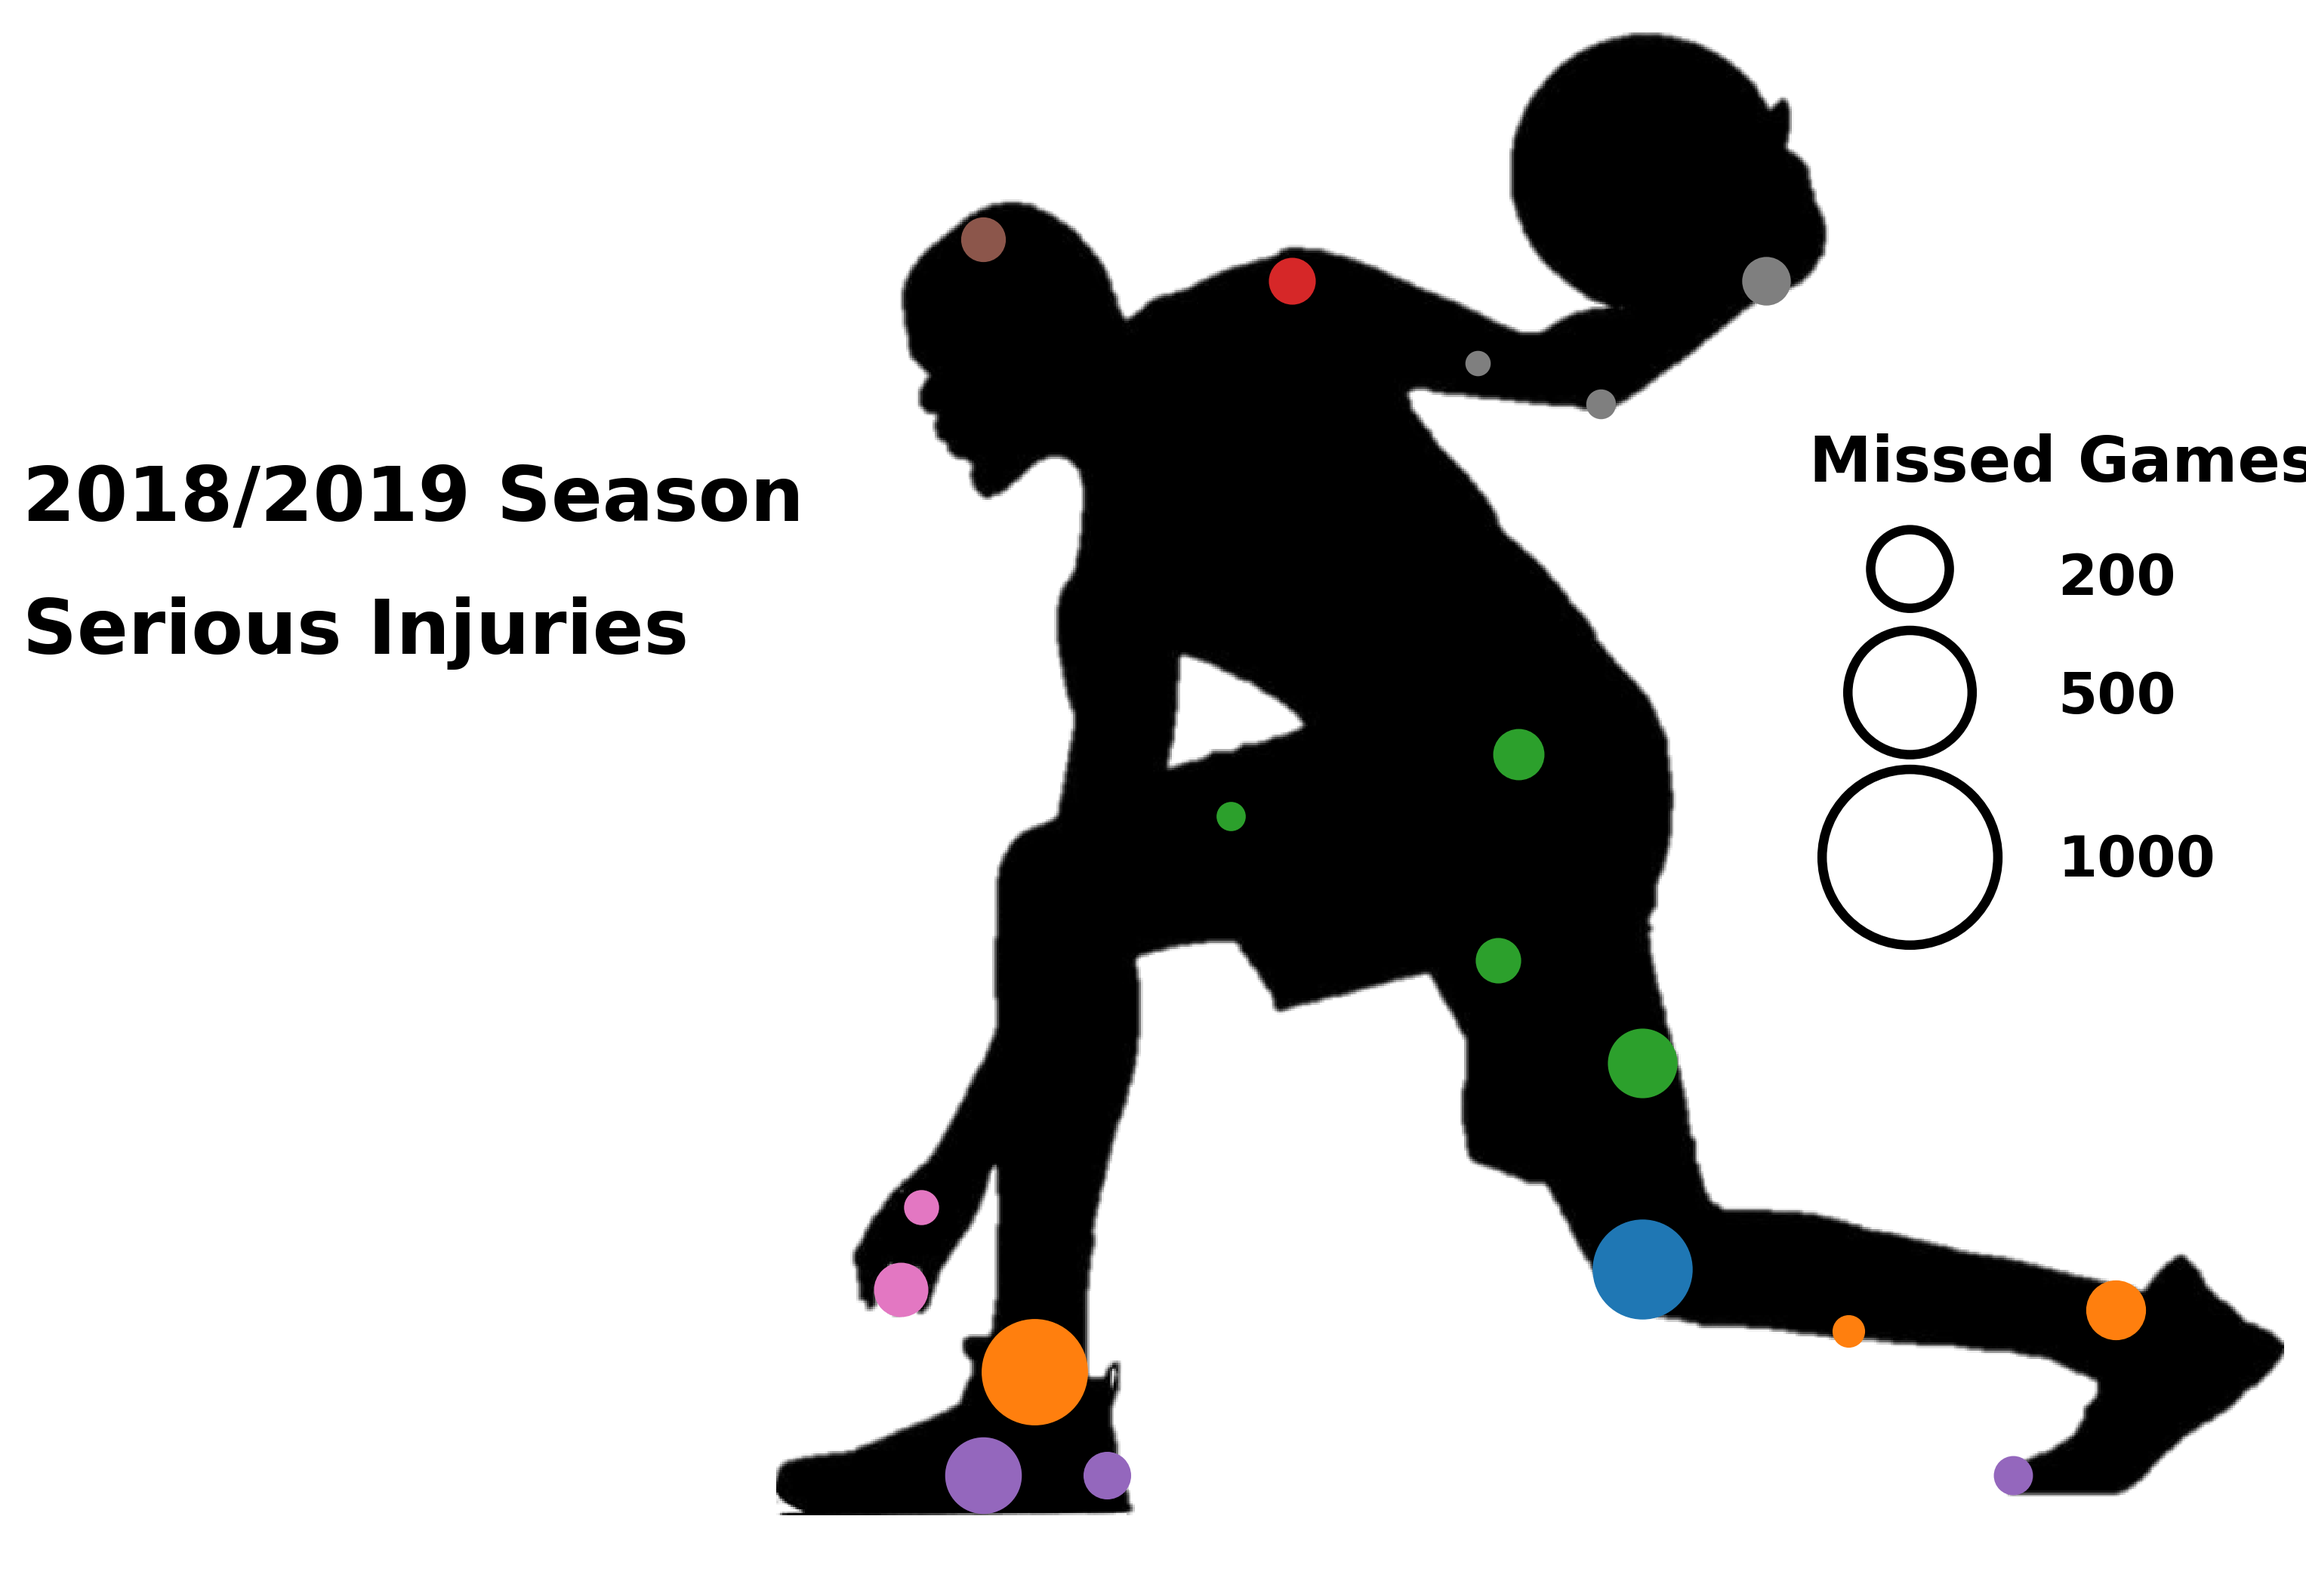
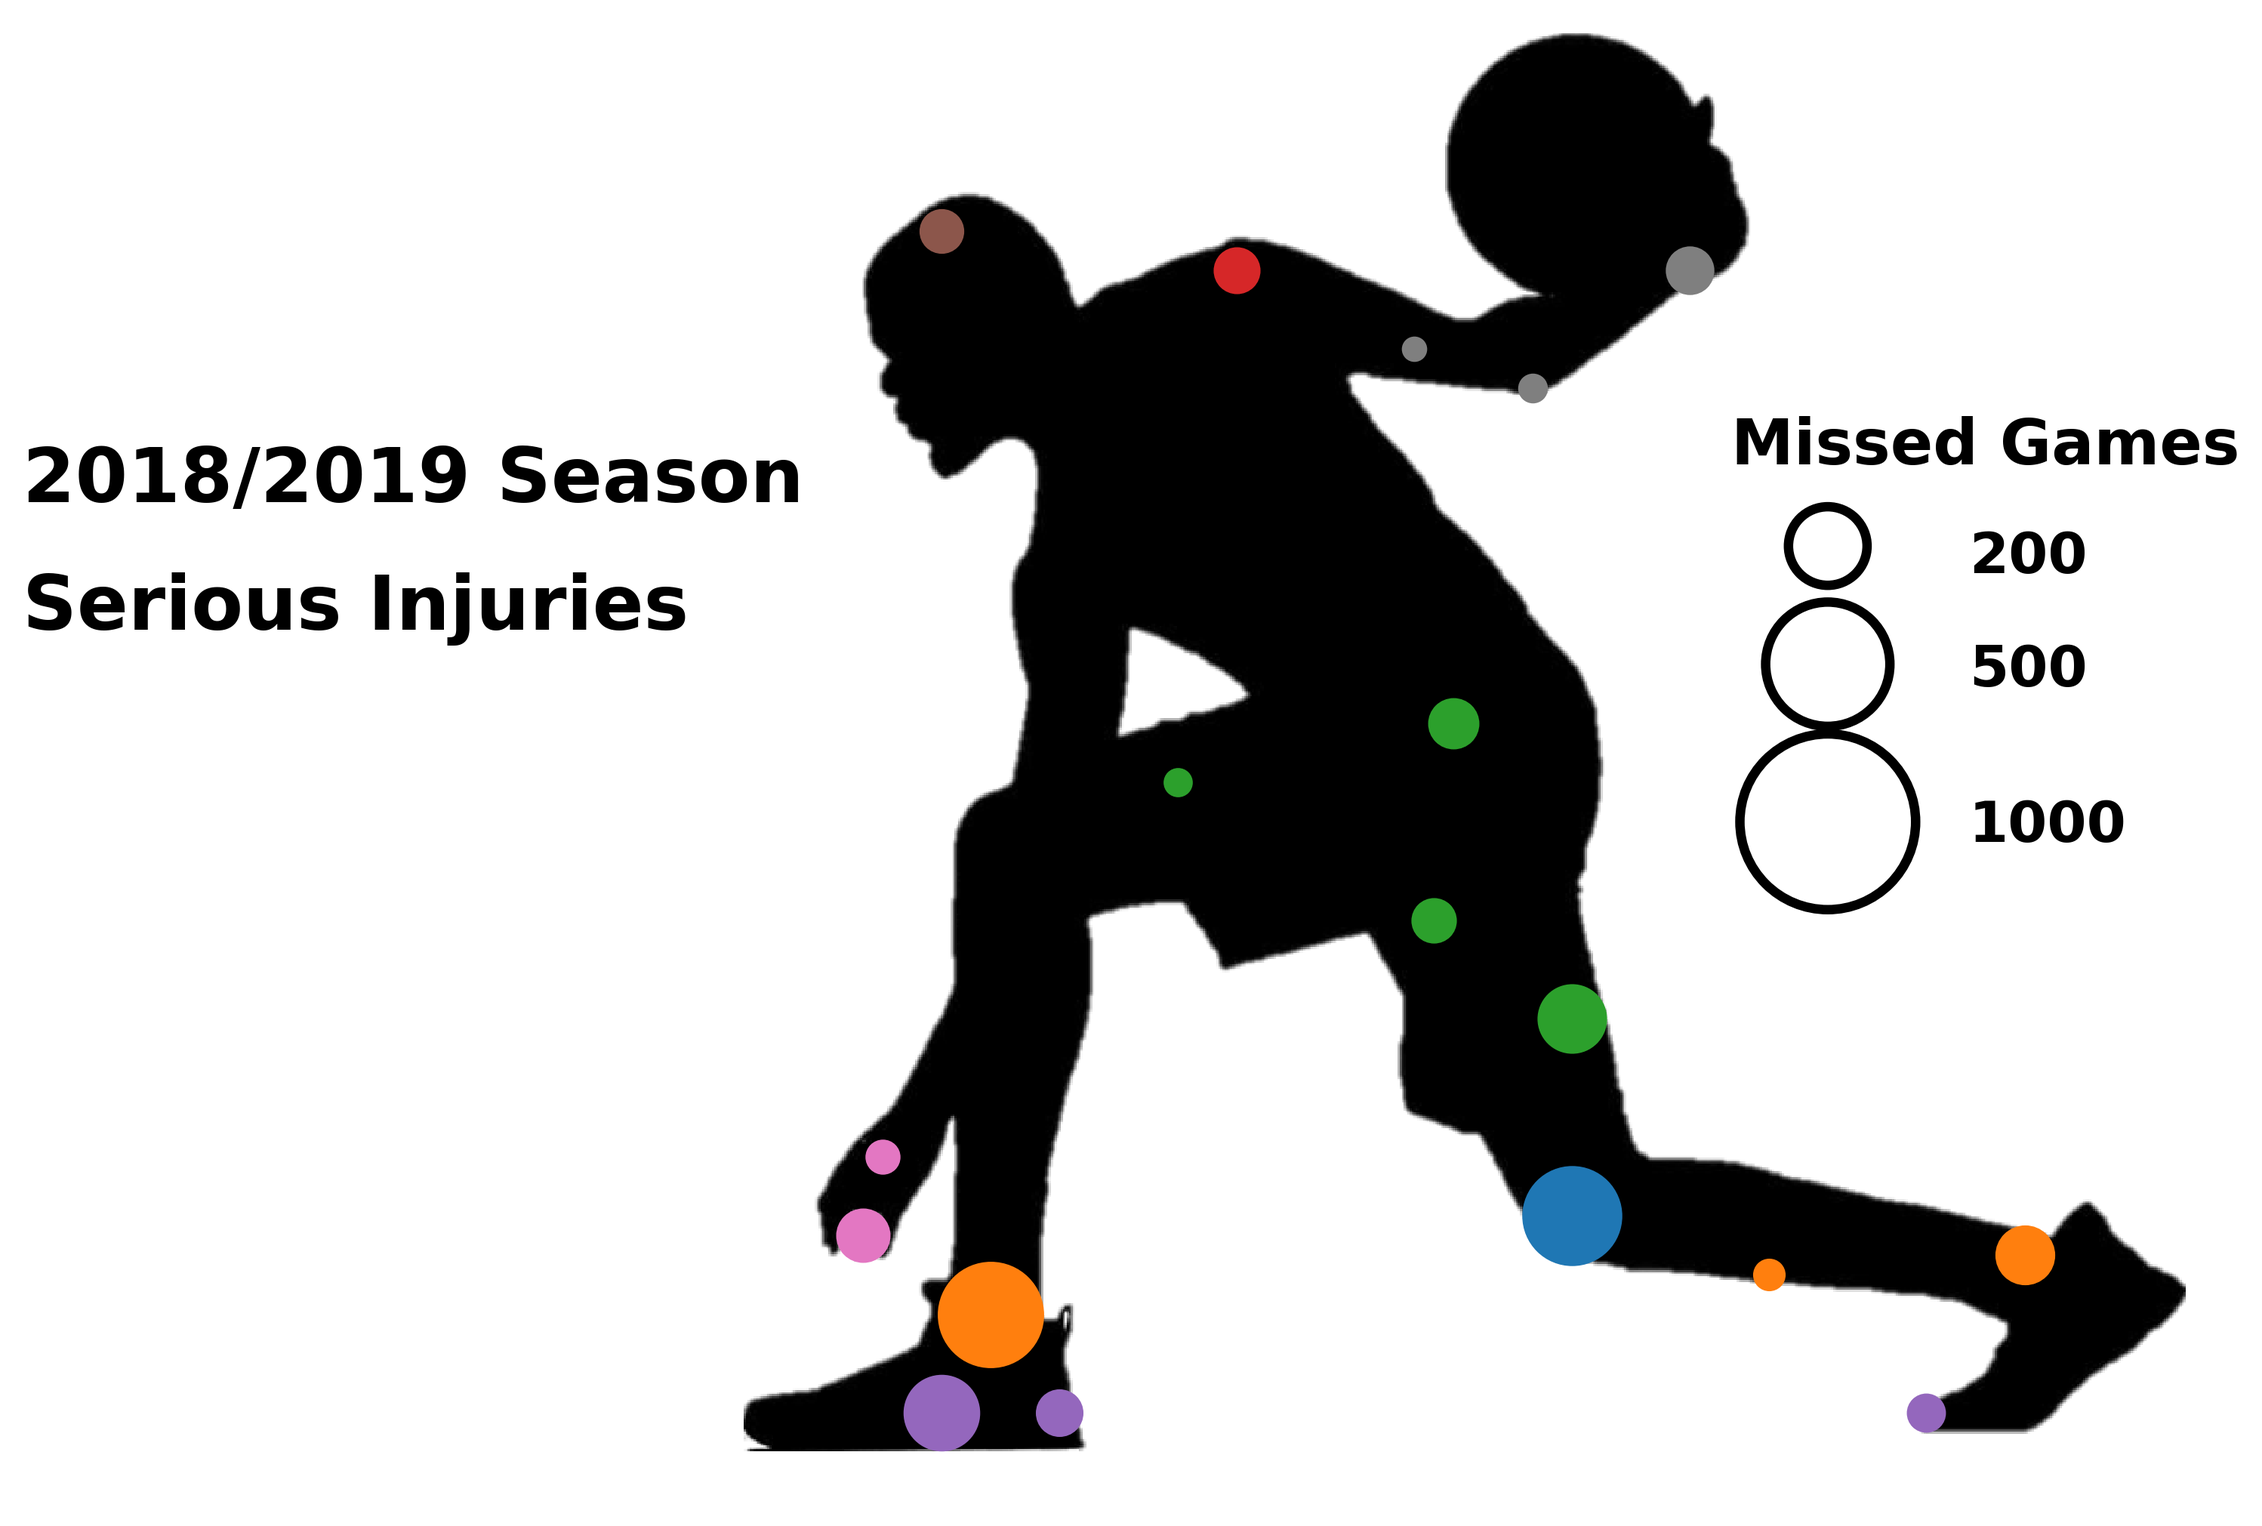
updated plots and text

diff --git a/src/d04_visualization/plot_body_map_all_injuries.py b/src/d04_visualization/plot_body_map_all_injuries.py
@@ -181,7 +181,7 @@ max_size = 2000
 max_value = dataset.values.max()
 
 #Adjust DPI to control size of plot    
-dpi = 110
+dpi = 115
 im_data = plt.imread(image_filepath)
 height, width, depth = im_data.shape
 
@@ -222,7 +222,7 @@ ax.text(0.85, 0.65, str(int(200)), transform=ax.transAxes, fontsize=18, weight =
 # text box one
 ax.text(-0.50, 0.71, ('{}/{} Season '.format(year, (year+1))), transform=ax.transAxes, fontsize=24, weight ='bold', verticalalignment='top')    
 # text box two
-ax.text(0.685, 0.73, 'Missed Games', transform=ax.transAxes, fontsize=20, weight ='bold', verticalalignment='top')    
+legend = ax.text(0.685, 0.73, 'Missed Games', transform=ax.transAxes, fontsize=20, weight ='bold', verticalalignment='top')    
 
 # text box two
 title = ax.text(-0.50, 0.62, 'All Injuries', transform=ax.transAxes, fontsize=24,weight ='bold', verticalalignment='top')   
@@ -232,4 +232,4 @@ plt.show()
 
 #----------------------Save plot---------------------------------------------
 fig = ax.get_figure()
-fig.savefig(plot_savepath, dpi = 300, bbox_extra_artists=(title,), bbox_inches='tight')
+fig.savefig(plot_savepath, dpi = 300, bbox_extra_artists=(title,legend), bbox_inches='tight')

diff --git a/src/d04_visualization/plot_body_map_serious_injuries.py b/src/d04_visualization/plot_body_map_serious_injuries.py
@@ -181,7 +181,7 @@ max_size = 2000
 max_value = dataset.values.max()
 
 #Adjust DPI to control size of plot    
-dpi = 110
+dpi = 115
 im_data = plt.imread(image_filepath)
 height, width, depth = im_data.shape
 
@@ -223,7 +223,7 @@ ax.text(0.85, 0.65, str(int(200)), transform=ax.transAxes, fontsize=18, weight =
 ax.text(-0.50, 0.71, ('{}/{} Season '.format(year, (year+1))), transform=ax.transAxes, fontsize=24, weight ='bold', verticalalignment='top')    
   
 # text box two
-ax.text(0.685, 0.73, 'Missed Games', transform=ax.transAxes, fontsize=20, weight ='bold', verticalalignment='top')    
+legend = ax.text(0.685, 0.73, 'Missed Games', transform=ax.transAxes, fontsize=20, weight ='bold', verticalalignment='top')    
 
 # text box two
 title = ax.text(-0.50, 0.62, 'Serious Injuries', transform=ax.transAxes, fontsize=24,weight ='bold', verticalalignment='top')   
@@ -233,4 +233,4 @@ plt.show()
 
 #----------------------Save plot---------------------------------------------
 fig = ax.get_figure()
-fig.savefig(plot_savepath, dpi = 300, bbox_extra_artists=(title,), bbox_inches='tight')
+fig.savefig(plot_savepath, dpi = 300, bbox_extra_artists=(title,legend), bbox_inches='tight')

diff --git a/README.md b/README.md
@@ -197,6 +197,8 @@ Alternatively we can limit our analysis to serious injuries (more than 15 games 
 <p align="center">
 <img src="https://github.com/elap733/NBA-Injuries-Analysis/blob/master/results/01_plots/body_map_serious_injuries2018.png">
 </p>
+
+
 **Fig.10: Mapping of 2018-2019 missed games due to serious injury to specific body parts. Circle size is proportional to number of missed games** [Code to recreate plot]( https://github.com/elap733/NBA-Injuries-Analysis/blob/master/src/d04_visualization/plot_body_map_serious_injuries.py) <br/>*Additional figure notes: excluded events related to personal reasons, rest, sickness; included only players averaging 10 minutes per game.*
 
 In Figure 9 and Figure 10 above, we see that ankle, knee, and foot account for the majority of serious injuries - a relatively consistent trend across seasons. 
@@ -292,30 +294,23 @@ This analysis of NBA injuries (2010-2018 seasons) revealed that missed games and
 
 **Data**
 
-			**01_raw** - Uncleaned scraped datasets
-
-			**02_cleaned** - Cleaned datasets
-
-			**03_processed** - Processed datasets
+- **01_raw** - Uncleaned scraped datasets
+- **02_cleaned** - Cleaned datasets
+- **03_processed** - Processed datasets 
 
 **References**
 
-			**01_dictionaries** - Team abbreviations and team nicknames dictionaries
-
-			**02_images** - Images found in readme
+- **01_dictionaries** - Team abbreviations and team nicknames dictionaries
+- **02_images** - Images found in readme
 
 **Results**
 
-			**01_plots** - All plots and figures
+- **01_plots** - All plots and figures
 
 **SRC** (source code)
 
-			**d00_utils** - Code to create team dictionary
-
-			**d01_scrapes** - All code for scraping data
-
-			**d02_clean** - All code for cleaning data
-
-			**d03_process** - All code for processing cleaned data
-
-			**d04_visualizations** - All code for creating visualizations
+- **d00_utils** - Code to create team dictionary
+- **d01_scrapes** - All code for scraping data
+- **d02_clean** - All code for cleaning data
+- **d03_process** - All code for processing cleaned data
+- **d04_visualizations** - All code for creating visualizations
